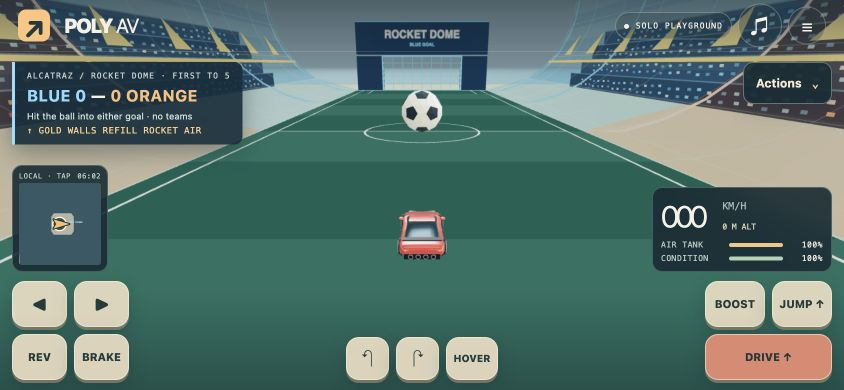
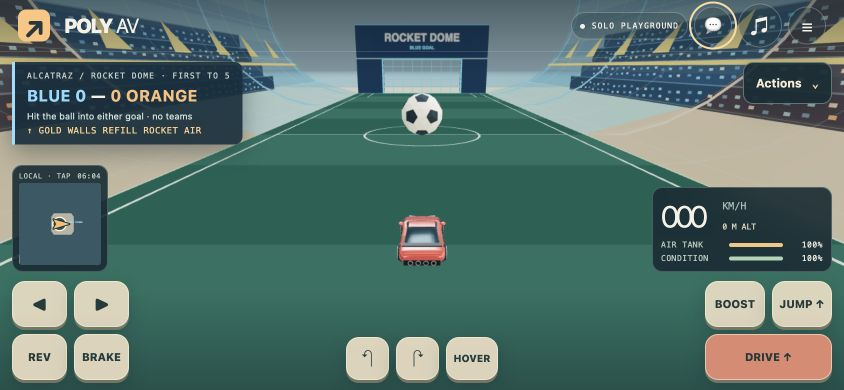
Verify Rocket Dome with global chat

diff --git a/docs/VERIFICATION.md b/docs/VERIFICATION.md
@@ -1,5 +1,11 @@
 # Verification · 2026-10-18 Pacific
 
+## Rocket Dome with global chat · protocol v14 · 2026-10-18 Pacific
+
+- After integrating global chat, `pnpm test` passed 167/167 and `pnpm build` passed both typechecks and the production build. Vite's existing chunk-size warning remains (725 kB / 205 kB gzip main JavaScript).
+- Local Wrangler room and chat integrations passed, including the two-client wall refill and saved-driver recovery. A room run during concurrent chat testing and Wrangler reload timed out waiting for a goal; a stable rerun passed. These are not load tests.
+- Chrome desktop and 390×844 portrait and 844×390 landscape emulation showed the combined dome, score, guidance, chat button and controls. Portrait global chat opened and showed a connection to the local server. Screenshots: [desktop](screenshots/rocket-dome/desktop.png), [portrait](screenshots/rocket-dome/portrait.png), [landscape](screenshots/rocket-dome/landscape.png). The wall drive and touch limitations below still apply; no physical device or frame-rate measurement was made.
+
 ## Global chat with shop feedback · protocol v13 · 2026-10-18 Pacific
 
 - After integrating the shop feedback fixes, `pnpm test` passed 164/164 and `pnpm build` passed. Vite's large-chunk warning remains.
